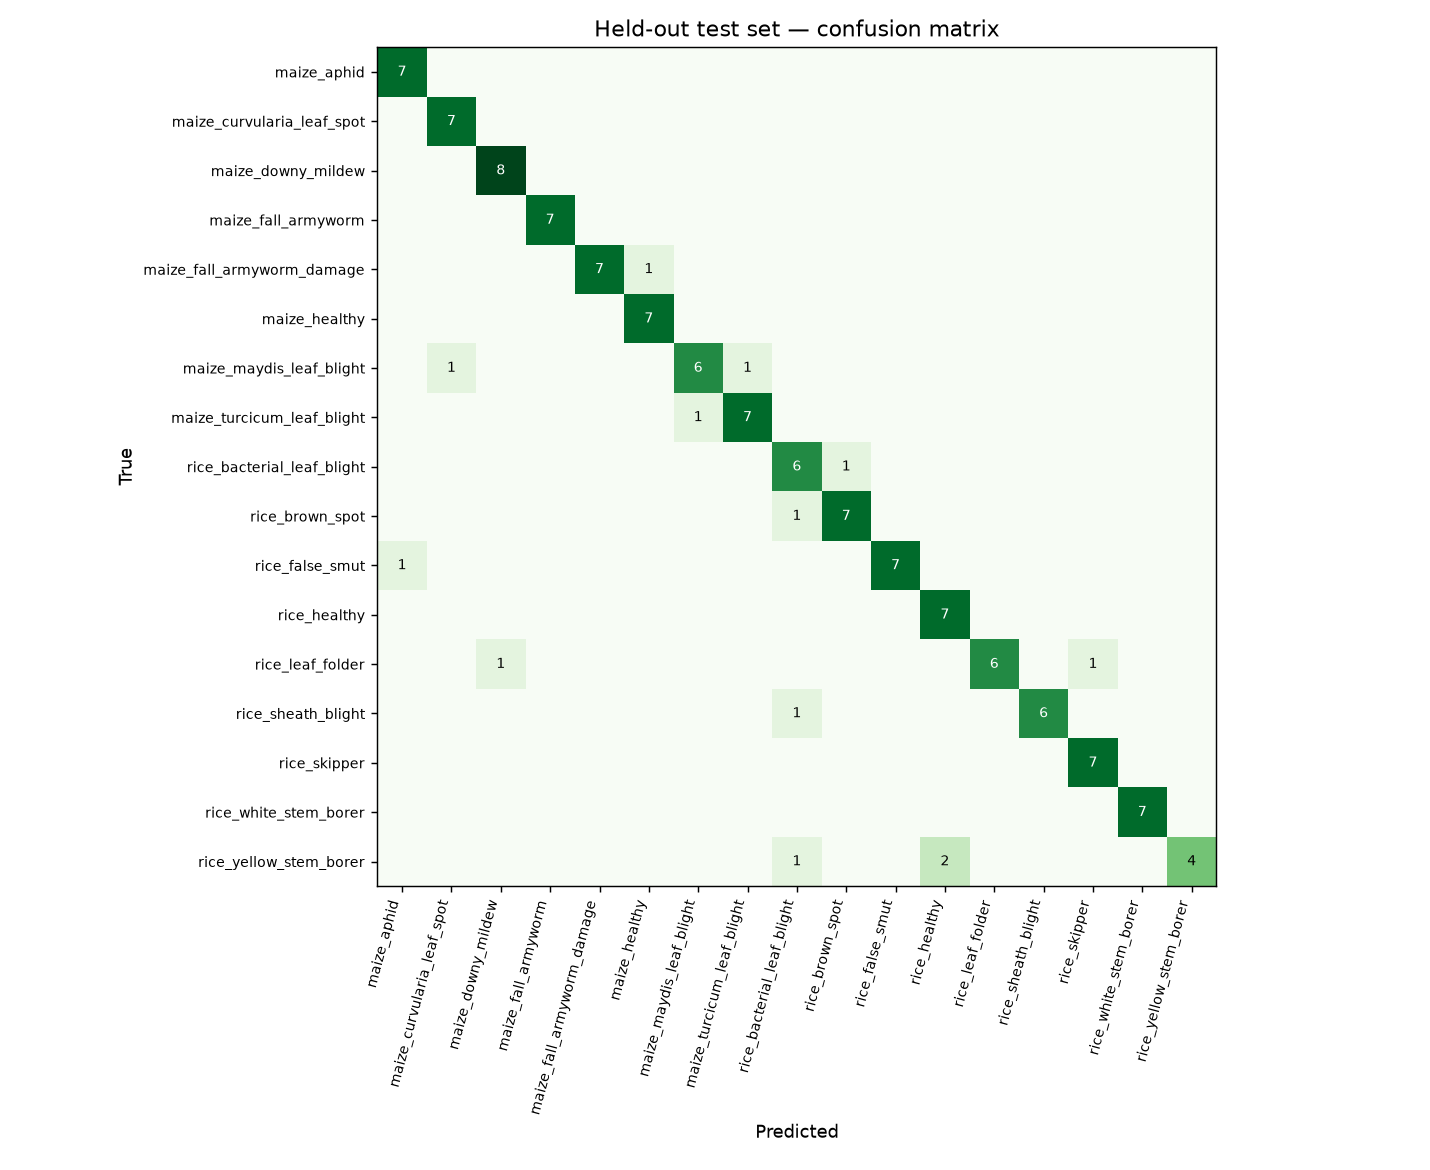
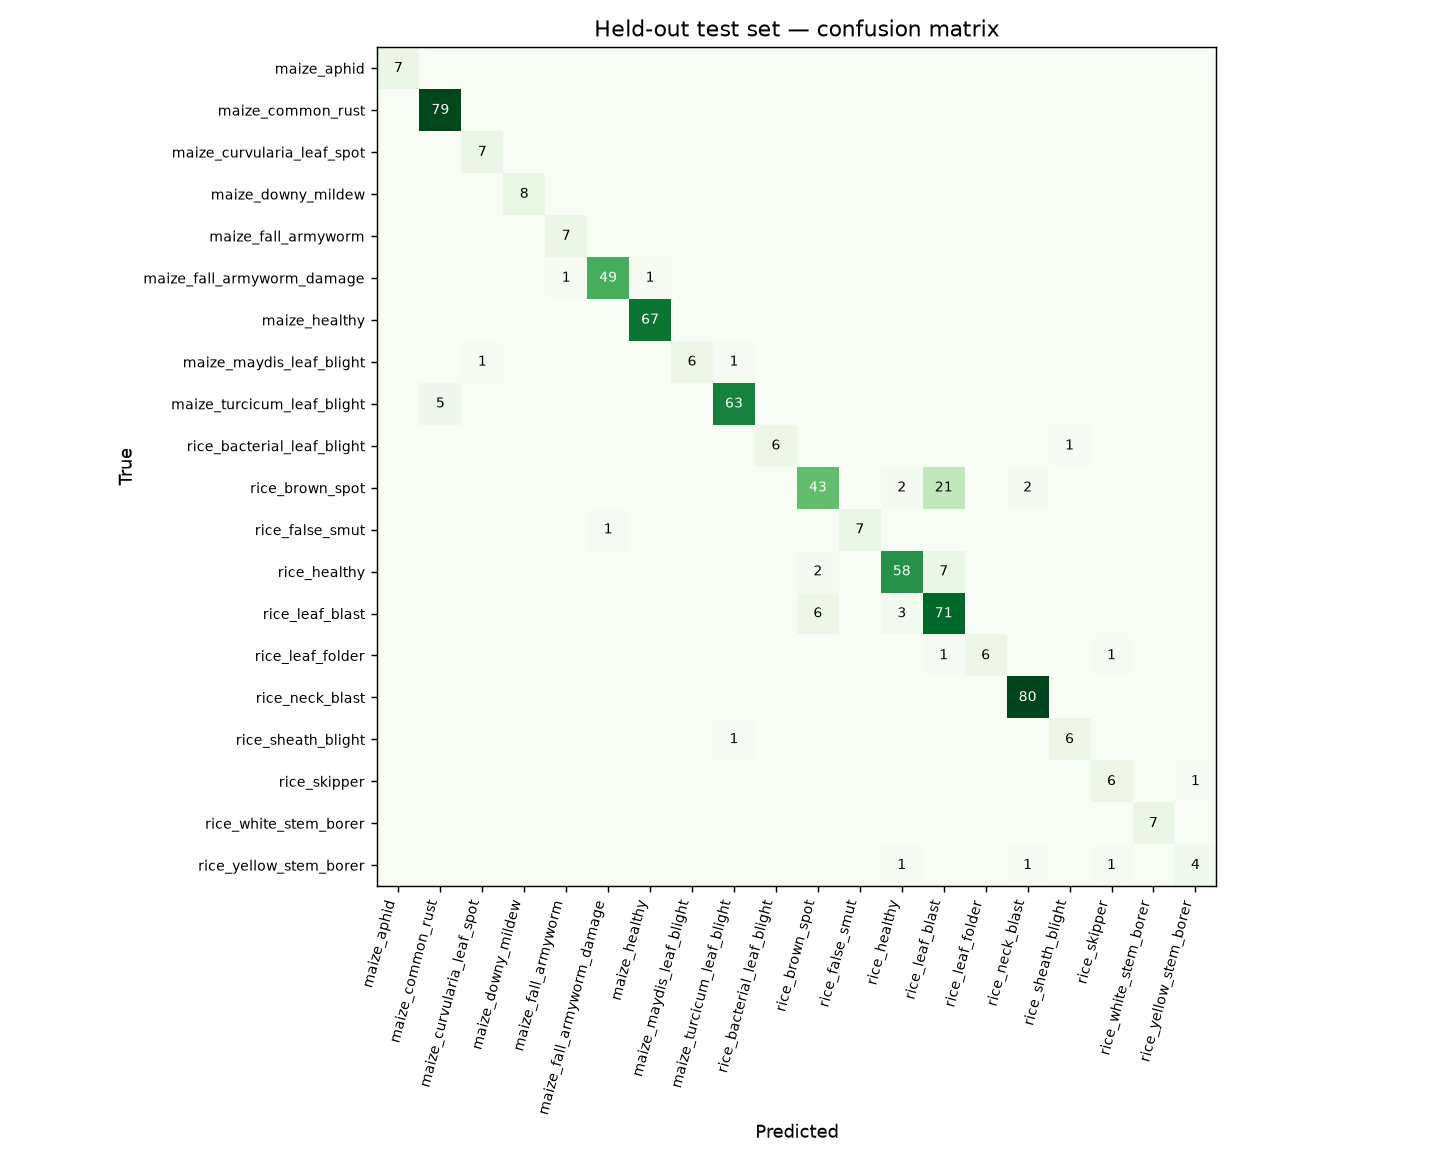
ml: v3 model — continual learning adds rice blast and maize rust
v2 (ImageNet start, ICAR photos at half weight) learnt the new classes but
lost ground on the ICAR field test (0.897 -> 0.849; accuracy when it advises
0.973 -> 0.922), so the deploy gate rejected it; its report is kept under
ml/reports/rejected_v2/.

v3 warm-starts from the deployed model (--warm-start): backbone and the head
rows of every class it already knew are loaded, only the new classes start
from scratch, the learning rate is a third, and ICAR photos get 75% of their
class's weight. Result, all gate checks passed and deployed:
  ICAR test top-1 0.889 (within 2 points), accuracy when advised 0.965
  (within 1 point); background-swapped recall: rice leaf blast 0.91,
  neck blast 1.00, maize common rust 1.00.

KB: rice_blast and maize_common_rust move to the diagnosable tier with the
data provenance in their notes; the inspection-tier gate test now uses
rice_tungro.

diff --git a/ml/train.py b/ml/train.py
@@ -118,17 +118,24 @@ def loader(rows, class_idx, tf, shuffle, bs=16, sampler=None, **ds):
                       sampler=sampler, num_workers=4, persistent_workers=True)
 
 
-def balanced_sampler(rows, epoch_size):
+def balanced_sampler(rows, epoch_size, icar_share=0.5):
     """Every class equally likely per epoch; inside a class that has both ICAR
-    and extra-source photos, each source gets half the class's weight."""
+    and extra-source photos, the ICAR field photos get `icar_share` of the
+    class's weight and the extra sources split the rest."""
     by_class: dict[str, Counter] = {}
     for r in rows:
         by_class.setdefault(r["train_class"], Counter())[r.get("source", "icar")] += 1
     w = []
     for r in rows:
         src = by_class[r["train_class"]]
-        share = 1.0 / len(src)  # split between sources present in this class
-        w.append(share / src[r.get("source", "icar")])
+        s = r.get("source", "icar")
+        if len(src) == 1:
+            share = 1.0
+        elif s == "icar":
+            share = icar_share
+        else:
+            share = (1.0 - icar_share) / (len(src) - 1 if "icar" in src else len(src))
+        w.append(share / src[s])
     return WeightedRandomSampler(torch.tensor(w, dtype=torch.double), num_samples=epoch_size, replacement=True)
 
 
@@ -221,12 +228,37 @@ def train_ann(backbone, train, val, class_idx, device, quick):
 # Paper 1 method: fine-tune end to end
 # --------------------------------------------------------------------------
 
+def warm_start(net, state: dict, old_classes: list[str], class_idx: dict[str, int]) -> list[str]:
+    """Continual learning: load a deployed model's backbone, and copy its head
+    rows for every class it already knows. Only new classes start from scratch,
+    so what the old model learnt from the ICAR photos is kept, not relearnt."""
+    net.features.load_state_dict({k[len("features."):]: v for k, v in state.items() if k.startswith("features.")})
+    w_old, b_old = state["head.1.weight"], state["head.1.bias"]
+    lin = net.head[1]
+    new = []
+    with torch.no_grad():
+        for c, i in class_idx.items():
+            if c in old_classes:
+                j = old_classes.index(c)
+                lin.weight[i].copy_(w_old[j])
+                lin.bias[i].copy_(b_old[j])
+            else:
+                new.append(c)
+    return new
+
+
 def finetune(backbone, train, val, class_idx, device, quick, epochs, backgrounds=None, val_backgrounds=None,
-             epoch_size=None):
+             epoch_size=None, init=None, icar_share=0.5):
     net = Net(backbone, len(class_idx), "finetune").to(device)
+    lr_feat, lr_head, warm = 1.5e-4, 1e-3, 3
+    if init is not None:  # (state_dict, class list) of the deployed model
+        new = warm_start(net, init[0], init[1], class_idx)
+        net.to(device)
+        lr_feat, lr_head, warm = 5e-5, 5e-4, 2  # gentle: don't wash out what it knows
+        print(f"  warm start from the deployed model; new classes: {new}")
     if backgrounds:
         dl_tr = loader(train, class_idx, train_transform(IMG), shuffle=True,
-                       sampler=balanced_sampler(train, epoch_size or len(train)),
+                       sampler=balanced_sampler(train, epoch_size or len(train), icar_share),
                        backgrounds=backgrounds, p=COMPOSITE_P)
         dl_va = loader(val, class_idx, test_transform(IMG), shuffle=False,
                        backgrounds=val_backgrounds, deterministic=True)
@@ -235,14 +267,14 @@ def finetune(backbone, train, val, class_idx, device, quick, epochs, backgrounds
         dl_va = loader(val, class_idx, test_transform(IMG), shuffle=False)
     n_seen = len(dl_tr.sampler) if backgrounds else len(train)
     epochs = 1 if quick else epochs
-    warm = 0 if quick else 3
+    warm = 0 if quick else warm
     params = [
-        {"params": net.features.parameters(), "lr": 1.5e-4},
-        {"params": net.head.parameters(), "lr": 1e-3},
+        {"params": net.features.parameters(), "lr": lr_feat},
+        {"params": net.head.parameters(), "lr": lr_head},
     ]
     opt = torch.optim.AdamW(params, weight_decay=0.02)
     sched = torch.optim.lr_scheduler.OneCycleLR(
-        opt, max_lr=[1.5e-4, 1e-3], total_steps=(epochs + warm) * len(dl_tr), pct_start=0.15)
+        opt, max_lr=[lr_feat, lr_head], total_steps=(epochs + warm) * len(dl_tr), pct_start=0.15)
     best, best_state, history = -1.0, None, []
     t0 = time.time()
     for epoch in range(warm + epochs):
@@ -395,6 +427,8 @@ def main():
     ap.add_argument("--quick", action="store_true")
     ap.add_argument("--epochs", type=int, default=22)
     ap.add_argument("--skip-benchmark", action="store_true")
+    ap.add_argument("--warm-start", action="store_true",
+                    help="with --with-extra: continue from the deployed model instead of ImageNet weights")
     ap.add_argument("--with-extra", action="store_true",
                     help="v2: add the extra sources (blast, rust, field FAW) with background randomisation")
     args = ap.parse_args()
@@ -584,9 +618,17 @@ def main_extra(args):
           f"extra {len(e_tr)}/{len(e_va)}/{len(e_te)}  epoch={epoch_size or len(train)} samples  "
           f"backgrounds train={ {c: len(v) for c, v in bgs['train'].items()} }")
 
-    print("fine-tune — EfficientNetV2-S, ICAR + extra sources, background randomisation:")
+    init, icar_share = None, 0.5
+    if args.warm_start:
+        if not prev_meta or not (ART / "model.pt").exists():
+            sys.exit("--warm-start needs a deployed model in ml/artifacts/")
+        init = (torch.load(ART / "model.pt", map_location="cpu"), prev_meta["classes"])
+        icar_share = 0.75  # the ICAR field photos anchor the classes both sources share
+    print("fine-tune — EfficientNetV2-S, ICAR + extra sources, background randomisation"
+          f"{', warm start' if init else ''}:")
     net, f1, hist = finetune("efficientnet_v2_s", train, val, class_idx, device, args.quick, args.epochs,
-                             backgrounds=bgs["train"], val_backgrounds=bgs["val"], epoch_size=epoch_size or None)
+                             backgrounds=bgs["train"], val_backgrounds=bgs["val"], epoch_size=epoch_size or None,
+                             init=init, icar_share=icar_share)
 
     dl_va = loader(val, class_idx, test_transform(IMG), shuffle=False, backgrounds=bgs["val"], deterministic=True)
     lv, yv = logits_of(net, dl_va, device)
@@ -634,7 +676,8 @@ def main_extra(args):
         checks.append((f"{c} recall after background swap >= 0.70", r >= 0.70, f"{r:.3f}"))
     deploy = not args.quick and all(ok for _, ok, _ in checks)
 
-    version = f"icar+extra-efficientnet_v2_s-finetune-{datetime.now(UTC):%Y%m%d}"
+    version = (f"icar+extra-efficientnet_v2_s-{'warmstart' if init else 'finetune'}-"
+               f"{datetime.now(UTC):%Y%m%d}")
     meta = {
         "model_version": version, "backbone": "efficientnet_v2_s", "head": "finetune", "img_size": IMG,
         "classes": classes, "class_to_target": class_to_target, "model_targets": model_targets,
@@ -689,7 +732,10 @@ def main_extra(args):
         f"target). The ICAR train/validation/test split is the one the previous model used, so the ICAR test numbers "
         f"below compare like for like. Extra sources are split per class (70/15/15, seed {SEED}) and capped "
         f"(new classes ≤{EXTRA_CAP_NEW['train']} train images, classes ICAR already has ≤{EXTRA_CAP_EXISTING['train']}); "
-        "training samples classes evenly and, inside a class, gives the ICAR field photos half the weight.",
+        f"training samples classes evenly and, inside a class, gives the ICAR field photos {icar_share:.0%} of the weight."
+        + (" **Warm start:** training continues from the deployed model — its backbone and its head rows for every "
+           "class it already knew — at a third of the usual learning rate, so only the new classes are learnt from "
+           "scratch (continual learning)." if init else ""),
         "",
         "**Why background randomisation:** the extra rice photos are single leaves on white paper and the maize ones "
         "are PlantVillage leaves on black/grey — each class with its own backdrop. A network learns the backdrop. "

diff --git a/backend/tests/test_engine.py b/backend/tests/test_engine.py
@@ -61,7 +61,7 @@ def test_gate_escalates_crop_mismatch():
 
 
 def test_gate_escalates_inspection_tier_even_when_confident():
-    d = run_gate(topk(("rice_blast", 0.95), ("rice_brown_spot", 0.02)))
+    d = run_gate(topk(("rice_tungro", 0.95), ("rice_brown_spot", 0.02)))
     assert (d.outcome, d.reason) == ("escalate", "NOT_PHOTO_DIAGNOSABLE")
 
 

diff --git a/ml/reports/rejected_v2/REPORT.md b/ml/reports/rejected_v2/REPORT.md
@@ -1,6 +1,6 @@
-# AnnRakshak vision model — report
+# AnnRakshak vision model — report (v2 CANDIDATE — rejected by the deploy gate; v3 warm start replaced it)
 
-Generated 2026-09-15 08:37 UTC by `ml/train.py --with-extra`. Version `icar+extra-efficientnet_v2_s-warmstart-20260915`.
+Generated 2026-09-15 07:06 UTC by `ml/train.py --with-extra`. Version `icar+extra-efficientnet_v2_s-warmstart-20260915`.
 
 **Data:** ICAR rice & maize images (835 unique) + Crop Diseases compilation (rice blast, brown spot, healthy; PlantVillage maize rust, northern leaf blight, healthy) + CCMT field maize (fall armyworm, healthy); lab-backdrop photos trained with background randomisation. 20 training classes → 18 targets (rice leaf and neck blast, fall armyworm larvae and damage, are separate classes merged into one advisory target). The ICAR train/validation/test split is the one the previous model used, so the ICAR test numbers below compare like for like. Extra sources are split per class (70/15/15, seed 42) and capped (new classes ≤300 train images, classes ICAR already has ≤150); training samples classes evenly and, inside a class, gives the ICAR field photos 75% of the weight. **Warm start:** training continues from the deployed model — its backbone and its head rows for every class it already knew — at a third of the usual learning rate, so only the new classes are learnt from scratch (continual learning).
 
@@ -11,38 +11,38 @@ Generated 2026-09-15 08:37 UTC by `ml/train.py --with-extra`. Version `icar+extr
 | | Top-1 accuracy | Macro-F1 | Advised | Accuracy when advised | Calibration error |
 |---|---|---|---|---|---|
 | previous (icar-efficientnet_v2_s-finetune-20260914) | 0.897 | 0.895 | 86.5% | 0.9725 | 0.0552 |
-| **this model** | 0.889 | 0.766 | 91.3% | 0.9652 | 0.0565 |
+| **this model** | 0.881 | 0.879 | 61.1% | 0.987 | 0.2339 |
 
 ## 2. Extra-source test images
 
-- Original backgrounds: accuracy **0.910** (522 images); gate advises 94.6%, right 0.9393 of the time.
-- Plain-backdrop images only: 0.881 on the original backdrop → **0.854** with the backdrop swapped for an unseen field photo (gate right 0.9121 of the time when it advises).
+- Original backgrounds: accuracy **0.289** (522 images); gate advises 6.9%, right 0.9722 of the time.
+- Plain-backdrop images only: 0.177 on the original backdrop → **0.243** with the backdrop swapped for an unseen field photo (gate right 0.5625 of the time when it advises).
 
 Per-class recall, background swapped:
 
 | Class | Test images | Recall |
 |---|---|---|
-| maize_common_rust | 66 | 1.00 |
-| maize_healthy | 19 | 0.95 |
-| maize_turcicum_leaf_blight | 11 | 0.91 |
-| rice_brown_spot | 60 | 0.62 |
-| rice_healthy | 60 | 0.65 |
-| rice_leaf_blast | 79 | 0.91 |
-| rice_neck_blast | 67 | 1.00 |
+| maize_common_rust | 66 | 0.00 |
+| maize_healthy | 19 | 0.37 |
+| maize_turcicum_leaf_blight | 11 | 0.64 |
+| rice_brown_spot | 60 | 0.52 |
+| rice_healthy | 60 | 0.72 |
+| rice_leaf_blast | 79 | 0.00 |
+| rice_neck_blast | 67 | 0.00 |
 
 ## 3. Deployment checks
 
-- ✅ ICAR test top-1 within 2 points of deployed: 0.889 vs 0.897
-- ✅ ICAR accuracy-when-advised within 1 point of deployed: 0.9652 vs 0.9725
-- ✅ maize_common_rust recall after background swap >= 0.70: 1.000
-- ✅ rice_leaf_blast recall after background swap >= 0.70: 0.911
-- ✅ rice_neck_blast recall after background swap >= 0.70: 1.000
+- ✅ ICAR test top-1 within 2 points of deployed: 0.881 vs 0.897
+- ✅ ICAR accuracy-when-advised within 1 point of deployed: 0.987 vs 0.9725
+- ❌ maize_common_rust recall after background swap >= 0.70: 0.000
+- ❌ rice_leaf_blast recall after background swap >= 0.70: 0.000
+- ❌ rice_neck_blast recall after background swap >= 0.70: 0.000
 
-**Deployed**
+**Not deployed — the previous model stays live.**
 
-![confusion matrix](confusion_matrix.png)
+![confusion matrix](candidate_confusion.png)
 
-![Grad-CAM samples](gradcam_samples.png)
+![Grad-CAM samples](candidate_gradcam.png)
 
 ## Read this before quoting the numbers
 
